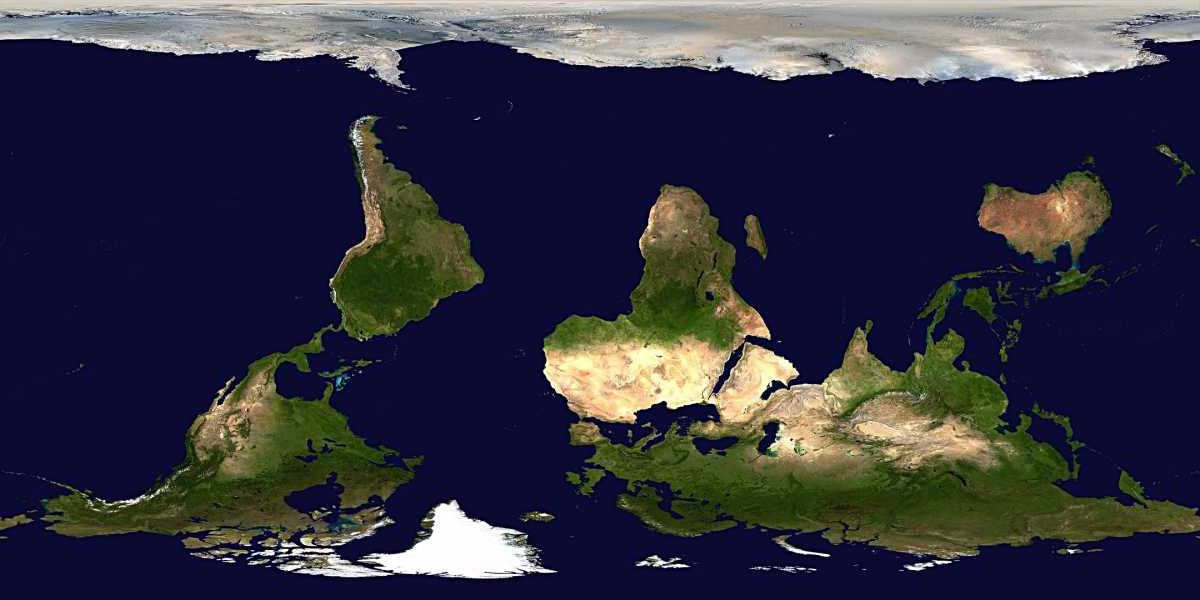
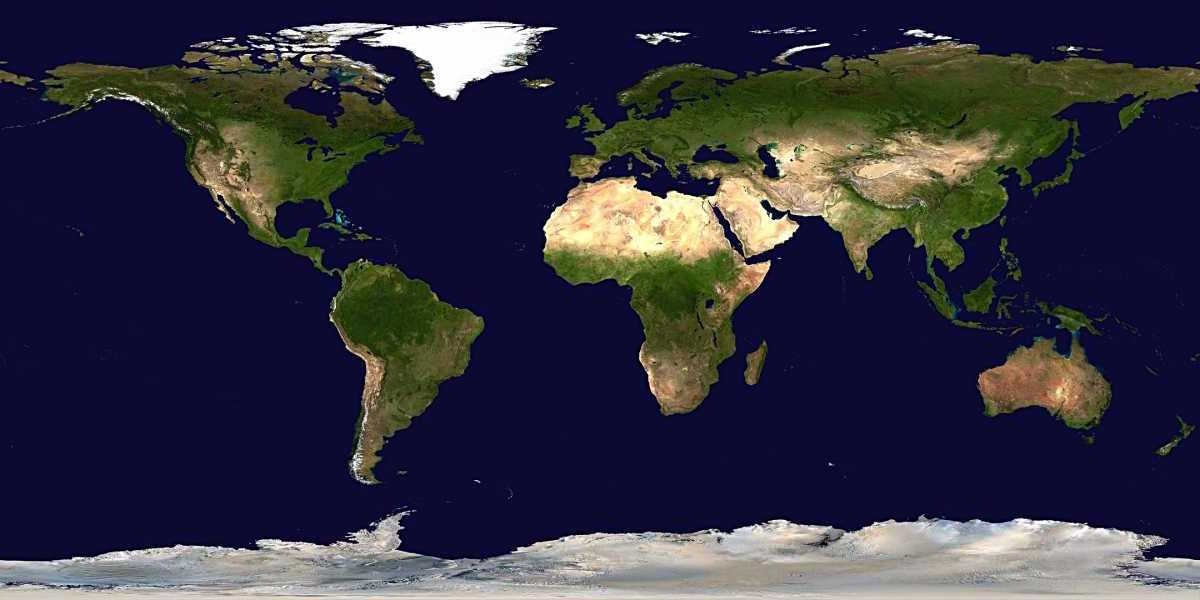
Updating world map and adding house picture in GPS data analyzer

diff --git a/gps_data_analyze.py b/gps_data_analyze.py
@@ -26,11 +26,25 @@ plt.xlabel("Longitude (deg)")
 plt.ylabel("Latitude (deg)")
 
 img = imread("maps/map.jpg")
-plt.imshow(img, zorder=0, extent=[-180, 180, 90, -90])
+plt.imshow(img, zorder=0, extent=[-180, 180, -90, 90])
+
+img = imread("maps/house.jpg")
+plt.imshow(img, zorder=0, extent=[-71.343431, -71.342690, 41.739744, 41.740059])
+
+#Center of the house should be located at   X -71.343310 , Y 41.739910,
+
+
+#UL: 41.740019, -71.343472
+#LL: 41.739744, -71.343431
+#LR: 41.739802, -71.342680
+#UR: 41.740059, -71.342690
+
+# Plot the center of the house
+plt.plot( -71.343310 , 41.739910 , 'rd' ) 
 
 x, y=zip(*data)
 plt.plot(x, y, "bo")
-ax = plt.gca()
-ax.invert_yaxis()
+'''ax = plt.gca()
+ax.invert_yaxis()'''
 
 plt.show()
